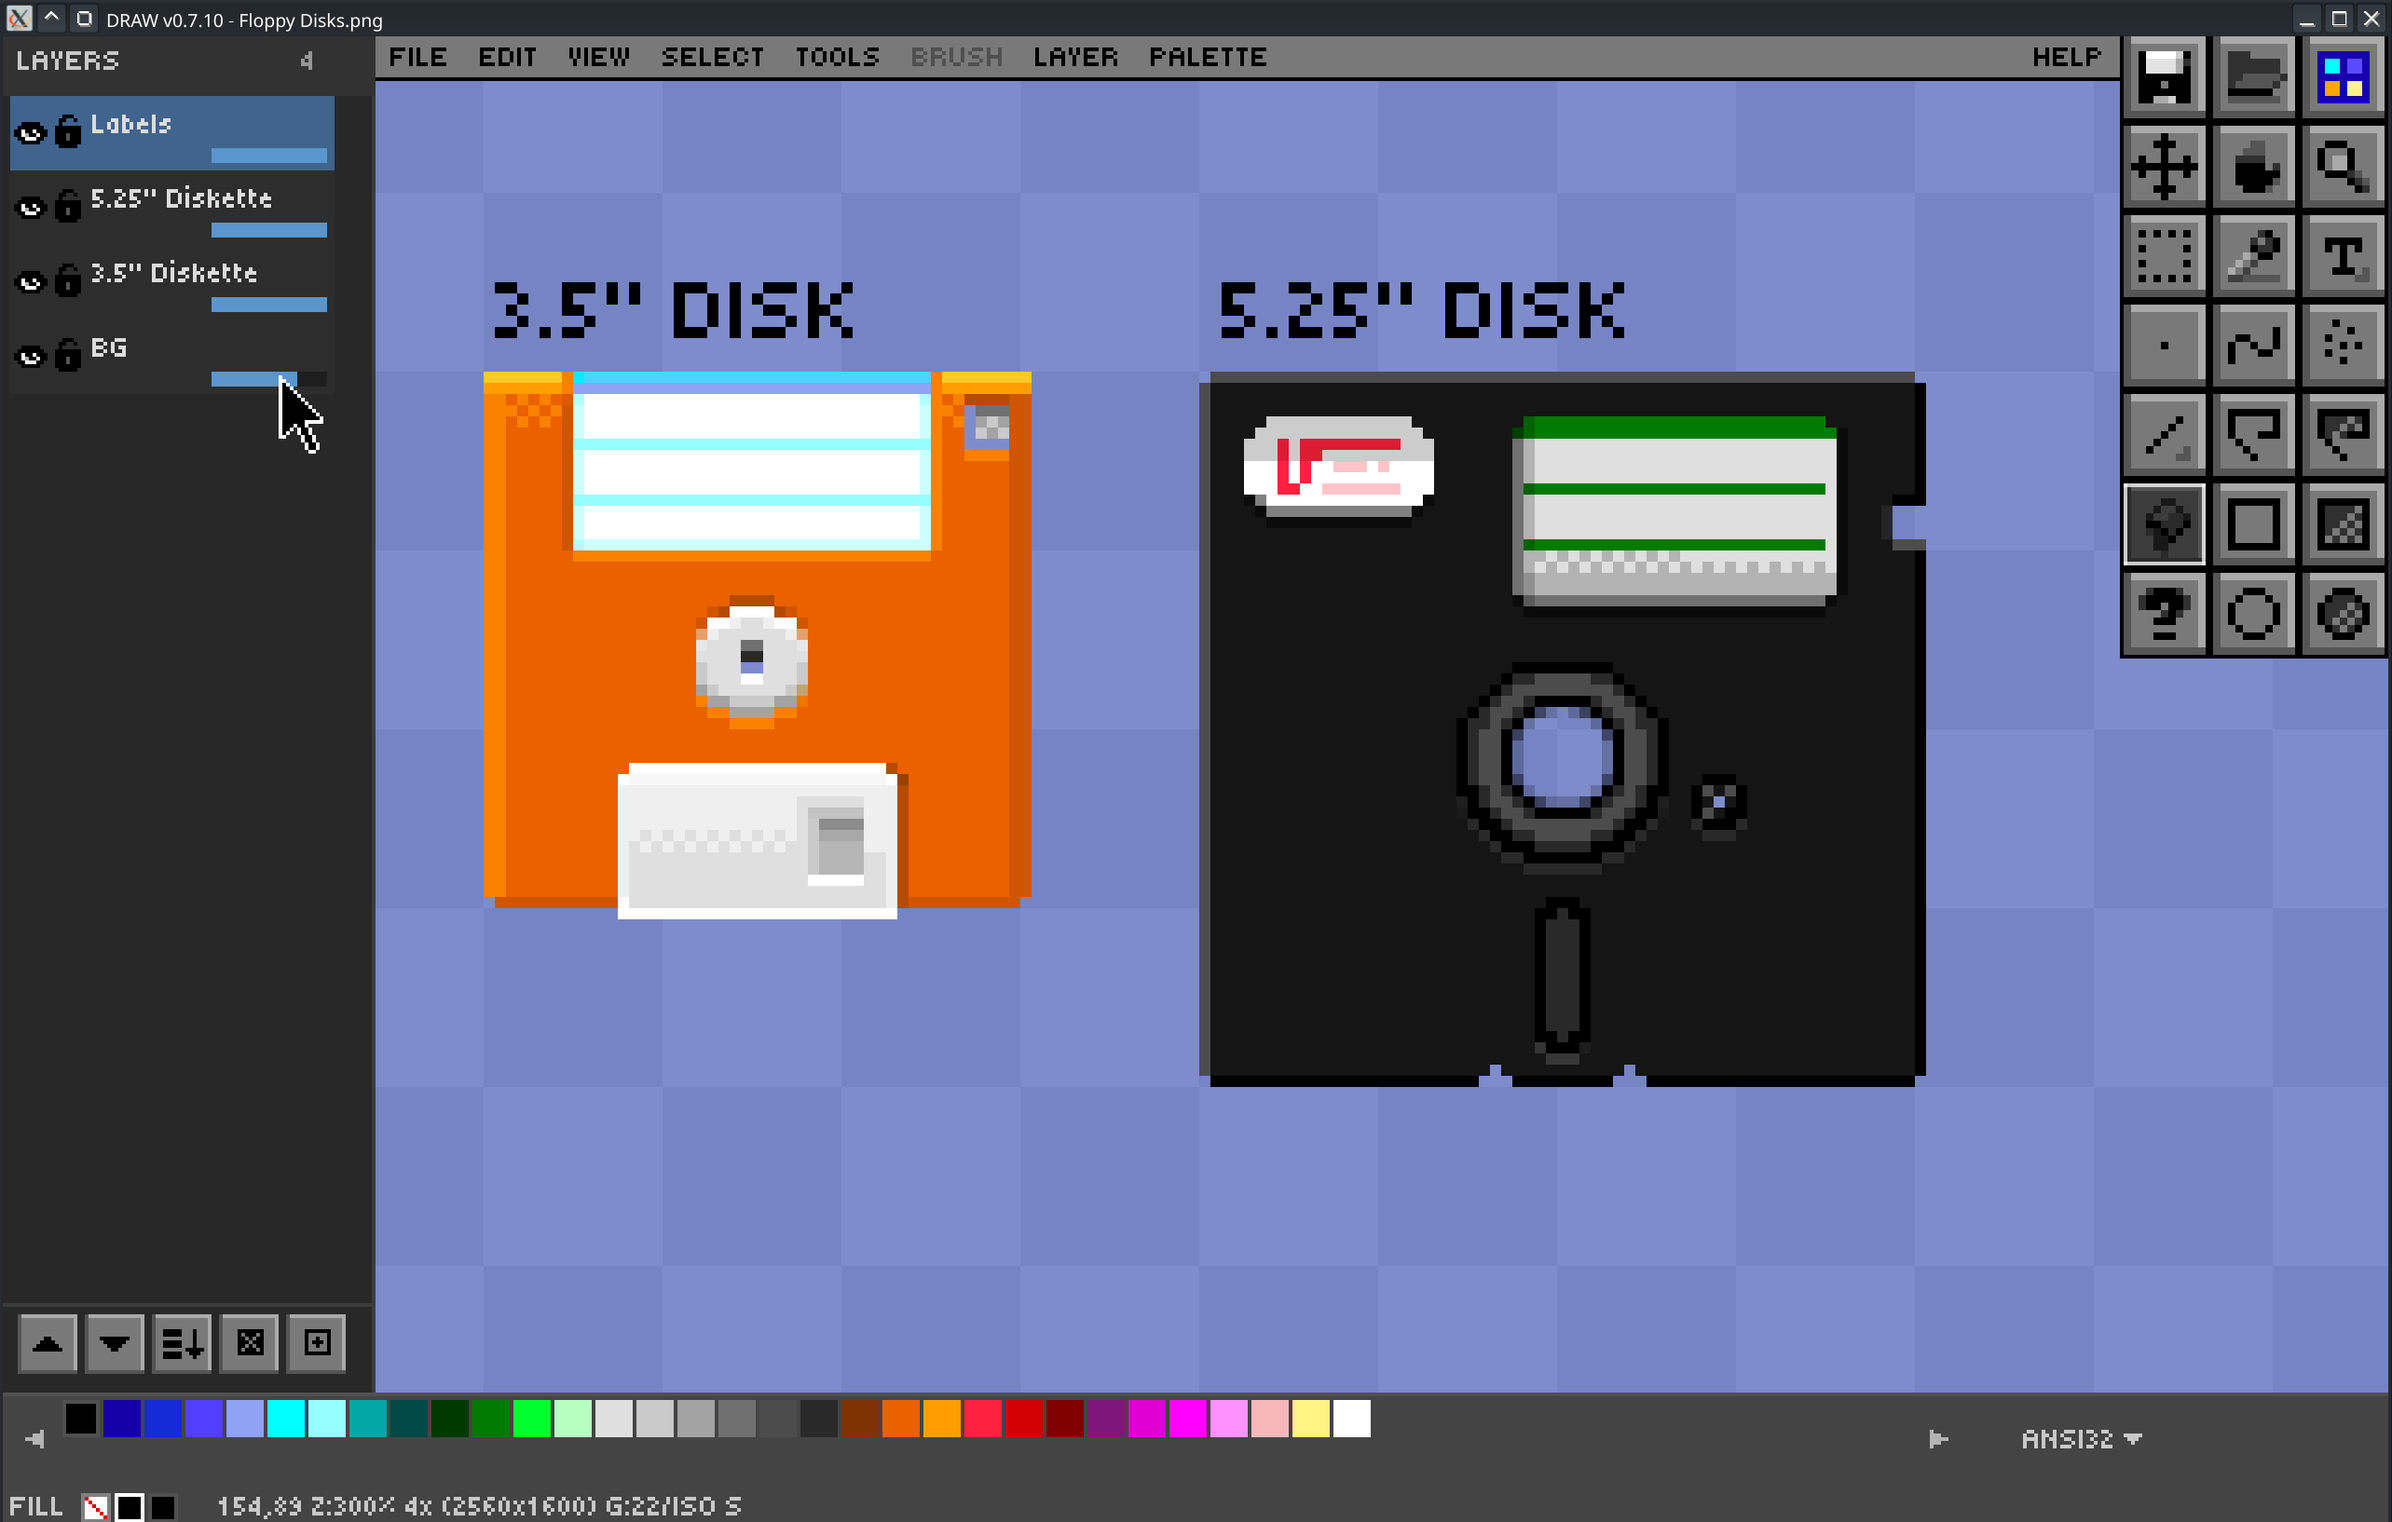
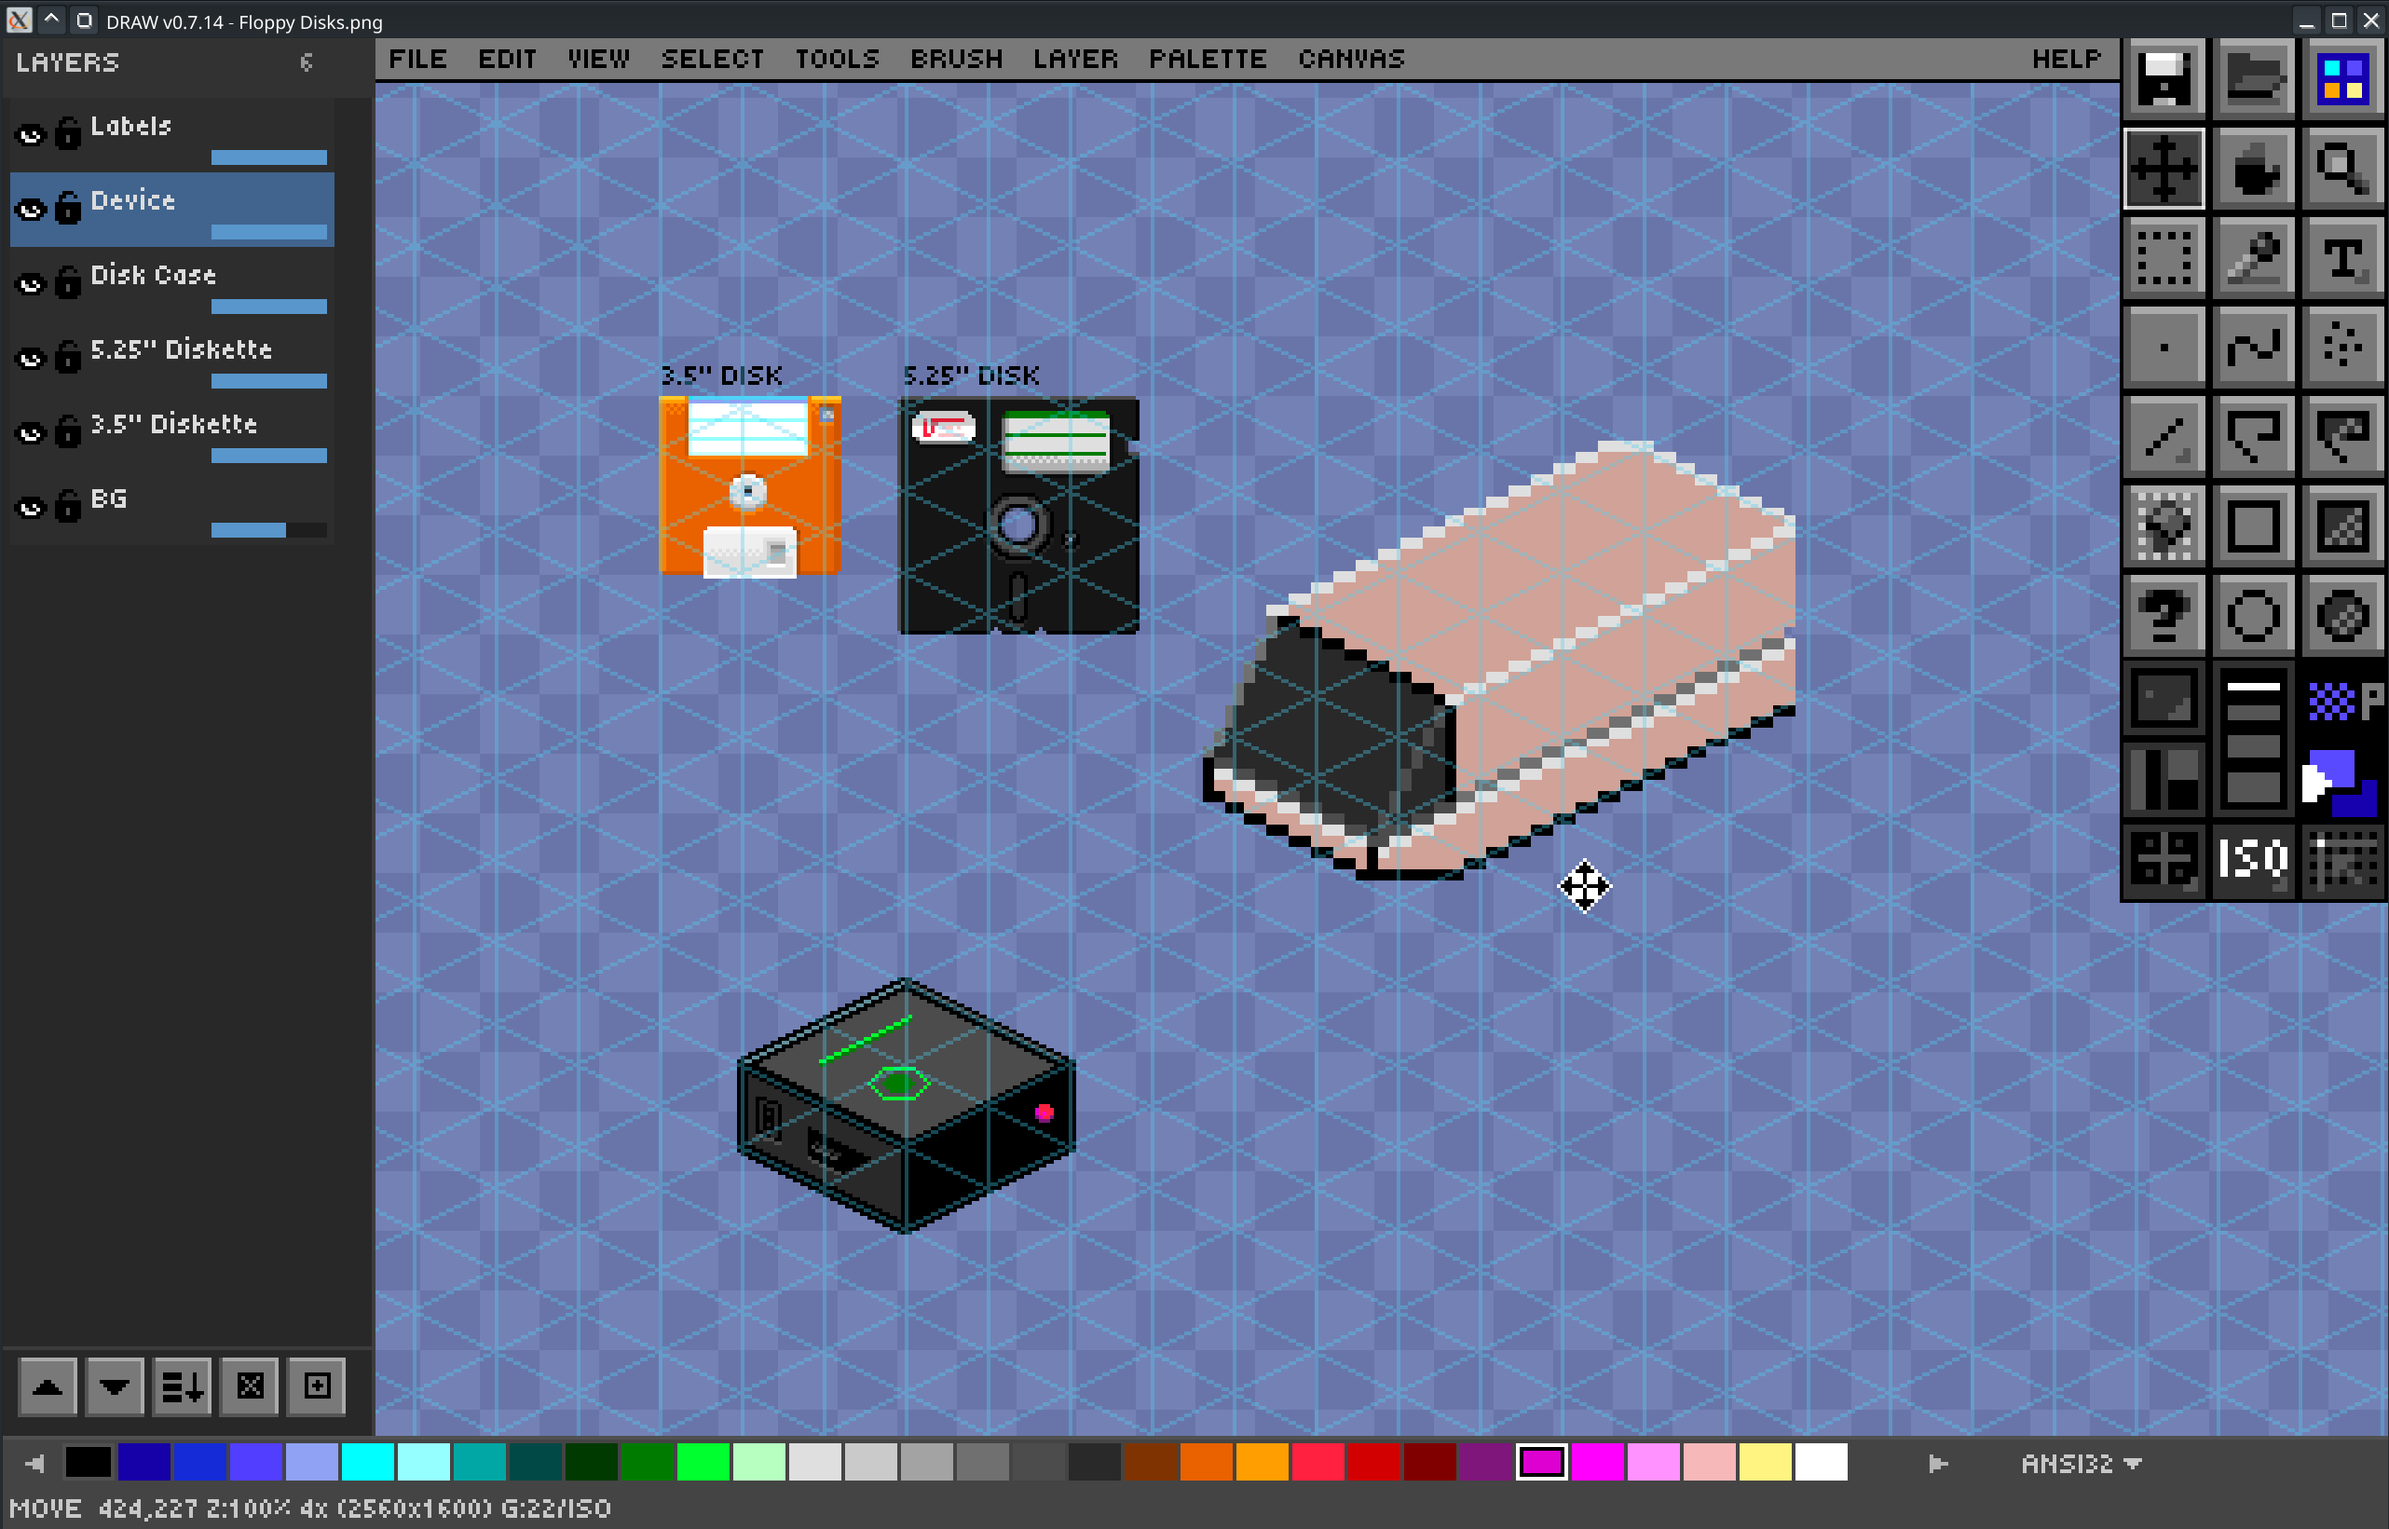
feat: Update documentation for angle snapping and grid features; enhance resource cleanup in shutdown process

diff --git a/CHEATSHEET.md b/CHEATSHEET.md
@@ -109,7 +109,7 @@ Press `*` (asterisk/star) to **toggle** the foreground color to/from transparent
 |------|------------|-------------|
 | **Square** (default) | (none) | Standard axis-aligned rectangular grid |
 | **Diagonal** | `/DG` | 45° rotated diamond grid |
-| **Isometric** | `/ISO` | 30°/60° isometric triangle grid |
+| **Isometric** | `/ISO` | 2:1 pixel art isometric grid (26.565° diagonals) |
 | **Hex** | `/HEX` | Flat-top hexagonal grid with 45° diagonal sides |
 
 Cycle through modes with `Ctrl+'`. The current mode is shown in the status bar after the grid size (e.g., `G:16/ISO`).
@@ -141,6 +141,8 @@ Toggle via View menu → Grid Tile Mode. Grid alignment affects all snap-to-grid
 - Both grids can be shown simultaneously at high zoom levels
 - Status bar shows grid state: `G:n` (visible) or `G:n S` (snap enabled)
 - Snap-to-grid rounds all drawing coordinates to nearest grid boundary
+- **Ctrl+Shift** bypasses grid snap temporarily (for freehand placement off-grid while snap is enabled)
+- Grid state (mode, snap, alignment, cell fill, size) is preserved in `.draw` project files
 - Grid color, opacity, and angle are configurable in DRAW.cfg and theme files
 
 ## Symmetry Drawing
@@ -258,7 +260,8 @@ When a custom brush is captured (`Ctrl+B`), the spray tool stamps the custom bru
 | Tool | Action | Function |
 |------|--------|----------|
 | **Dot** | Shift + Right Click | Draw line from last point to current |
-| **Picker** | Alt (hold) | Temporarily activate picker (releasing ALT returns to previous tool without opening the menu bar) |
+| **Picker** | Alt + Left Click | Temporarily pick foreground color (returns to previous tool on ALT release) |
+| **Picker** | Alt + Right Click | Temporarily pick background color (returns to previous tool on ALT release) |
 | **Marquee** | Drag handles | Resize selection |
 | **Marquee** | Drag inside | Move selection |
 | **Move** | Drag handles | Scale/resize |
@@ -367,7 +370,8 @@ Brush size and shape affect all drawing tools: Brush, Dot, Line, Rectangle, Elli
 |------|----------|--------|
 | **Line/Rect/Ellipse** | Shift (drag) | Constrain to horizontal/vertical |
 | **Brush/Spray** | Shift (drag) | Constrain to horizontal or vertical axis |
-| **Line/Polygon** | Ctrl+Shift (drag/click) | Snap to angle increments (see Angle Snapping below) |
+| **Line/Polygon** | Ctrl+Shift (drag/click) | Snap to angle increments + bypass grid snap (see Angle Snapping below) |
+| **Brush/Dot** | Ctrl+Shift + Right Click | Connecting line with angle snap (from last point) |
 | **Rectangle** | Ctrl (drag) | Draw perfect square |
 | **Rectangle** | Shift (drag center) | Draw from center |
 | **Ellipse** | Ctrl (drag) | Draw perfect circle |
@@ -375,13 +379,13 @@ Brush size and shape affect all drawing tools: Brush, Dot, Line, Rectangle, Elli
 
 ## Angle Snapping
 
-Precise angle control for line and polygon drawing. Hold **Ctrl+Shift** to snap endpoints to configured angle increments.
+Precise angle control for line, polygon, and connecting-line drawing. Hold **Ctrl+Shift** to snap endpoints to configured angle increments. When grid snap is enabled, Ctrl+Shift also bypasses the grid so you can start lines at any pixel.
 
 ### Controls
 
 | Key | Function |
 |-----|----------|
-| `Ctrl+Shift` (hold while dragging) | Snap line/polygon angles to increments |
+| `Ctrl+Shift` (hold while dragging/clicking) | Snap angles to increments + bypass grid snap |
 
 ### Snap Increments
 
@@ -399,15 +403,17 @@ The default snap angle is **45°** (8 directions), configurable in `DRAW.cfg`:
 ### Supported Tools
 
 - **Line Tool**: Snap endpoint angle while dragging
-- **Polygon Tool**: Snap each segment angle as you click points
+- **Polygon Tool**: Snap each segment angle as you click points (preview shows snapped angle)
 - **Polygon Filled Tool**: Snap each filled polygon segment
+- **Brush/Dot + Shift+Right Click**: Connecting line from last point with angle snap
 
 ### Features
 
 - Preserves line distance while snapping angle
-- Visual feedback shows snapped position in real-time
+- Visual feedback shows snapped position in real-time (including polygon preview)
 - Works with symmetry drawing for complex symmetrical patterns
-- Combines with grid snap for precise positioned + angled lines
+- **Ctrl+Shift bypasses grid snap** — start and end lines at any pixel, even when snap-to-grid is on
+- Pixel art mode uses integer ratios for clean, aliasing-free lines
 
 ## Clipboard Operations
 
@@ -963,7 +969,8 @@ DRAW stores settings in `DRAW.cfg` in the application directory. Settings are lo
 | `CANVAS_W`, `CANVAS_H` | Canvas dimensions |
 | `DISPLAY_SCALE` | Window scale multiplier (1-4) |
 | `FPS_LIMIT` | Frame rate limit |
-| `ANGLE_SNAP_DEGREES` | Angle snap increment for lines/polygons |
+| `ANGLE_SNAP_DEGREES` | Angle snap increment for lines/polygons (degree mode) |
+| `ANGLE_SNAP_PIXEL_ART` | Use pixel-art-friendly integer slope angles (TRUE/FALSE) |
 | `GRID_SIZE` | Grid cell size in pixels |
 | `GRID_COLOR_FG` | Grid line color (hex RGB, 0=use theme) |
 | `GRID_OPACITY` | Grid line opacity 0-255 (0=use theme) |

diff --git a/README.MD b/README.MD
@@ -21,13 +21,13 @@ DRAW is a pixel art editor written in QB64PE that can export images as sourcecod
 ### Drawing Tools
 - **Brush** - Continuous freehand painting with adjustable size (1-50px) and shape (circle/square)
 - **Dot** - Single-pixel stamp tool (click to place, no drag painting)
-- **Line** - Draw straight lines with brush size/shape, real-time thick preview
+- **Line** - Draw straight lines with brush size/shape, real-time thick preview, angle snapping
 - **Rectangle** - Draw outlined or filled rectangles with brush size/shape
 - **Ellipse** - Draw outlined or filled ellipses/circles with brush size/shape
-- **Polygon** - Draw outlined or filled multi-point polygons with brush size/shape
+- **Polygon** - Draw outlined or filled multi-point polygons with brush size/shape, angle snapping
 - **Fill** - Flood fill tool
 - **Spray** - Spray paint with brush-shaped nozzle tips, radius doubles per brush size level, custom brush stamp support, SHIFT axis constraint, circle preview
-- **Picker** - Color sampling/eyedropper (hold ALT with any tool for temporary picker)
+- **Picker** - Color sampling/eyedropper (hold ALT with any tool for temporary picker; ALT+left picks FG, ALT+right picks BG)
 - **Marquee** - Rectangular selection with move and resize
 - **Move** - Transform and position selected content with arrow keys, undo support, and ALT+drag clone stamping
 - **Transform** - Universal flip H/V, rotate 90° CW/CCW, scale ±50% — works on layers, selections, or floating moves from any tool
@@ -39,14 +39,16 @@ DRAW is a pixel art editor written in QB64PE that can export images as sourcecod
 - **Reference Image** - Load a high-res image behind the canvas at adjustable opacity for tracing (`Ctrl+R` toggle, `Ctrl+Shift+Wheel` opacity, reposition via View menu); state persisted in `.draw` project files
 - **Image Import** - Load images with interactive placement, rotation (90° CW/CCW), horizontal/vertical flip, zoom, pan, and resize — with live preview of all transformations
 - **Crop** - Interactive canvas crop using marquee selection with dark overlay, resize handles, and size label; also supports canvas resize dialog
-- **Canvas Resize** - Resize canvas to arbitrary dimensions via dialog (Edit menu), preserving layer content at origin
+- **Canvas Resize** - Resize canvas to arbitrary dimensions via dialog (Canvas menu), preserving layer content at origin
+- **Angle Snap** - Two modes: degree-based (configurable 15°/30°/45°/90° increments) and pixel-art (11 integer-ratio angles for clean pixel lines). Hold Ctrl+Shift to snap + bypass grid. Applies to Line, Polygon, and Brush/Dot connecting lines
 
 ### Grid System
 - Adjustable grid overlay (2-50px spacing)
 - Toggle grid visibility with `'` (apostrophe)
 - Pixel grid for precise work at 400%+ zoom (`Shift+'`)
 - Snap-to-grid mode with `;` (semicolon)
-- **4 grid geometry modes**: Square, Diagonal (45°), Isometric (30°/60°), Hexagonal — cycle with `Ctrl+'`
+- **4 grid geometry modes**: Square, Diagonal (45°), Isometric (2:1 pixel art, 26.565°), Hexagonal — cycle with `Ctrl+'`
+- **Ctrl+Shift bypasses grid snap** for freehand placement when snap-to-grid is enabled
 - Grid alignment modes: Corner (snap to intersections) or Center (snap to cell centers) — toggle via View menu
 - **Grid cell fill mode**: Fill tool fills individual grid cells (squares, diamonds, triangles, or hexagons) instead of flood fill — toggle via View menu
 - Dynamic grid sizing with `.` (increase) and `,` (decrease)
